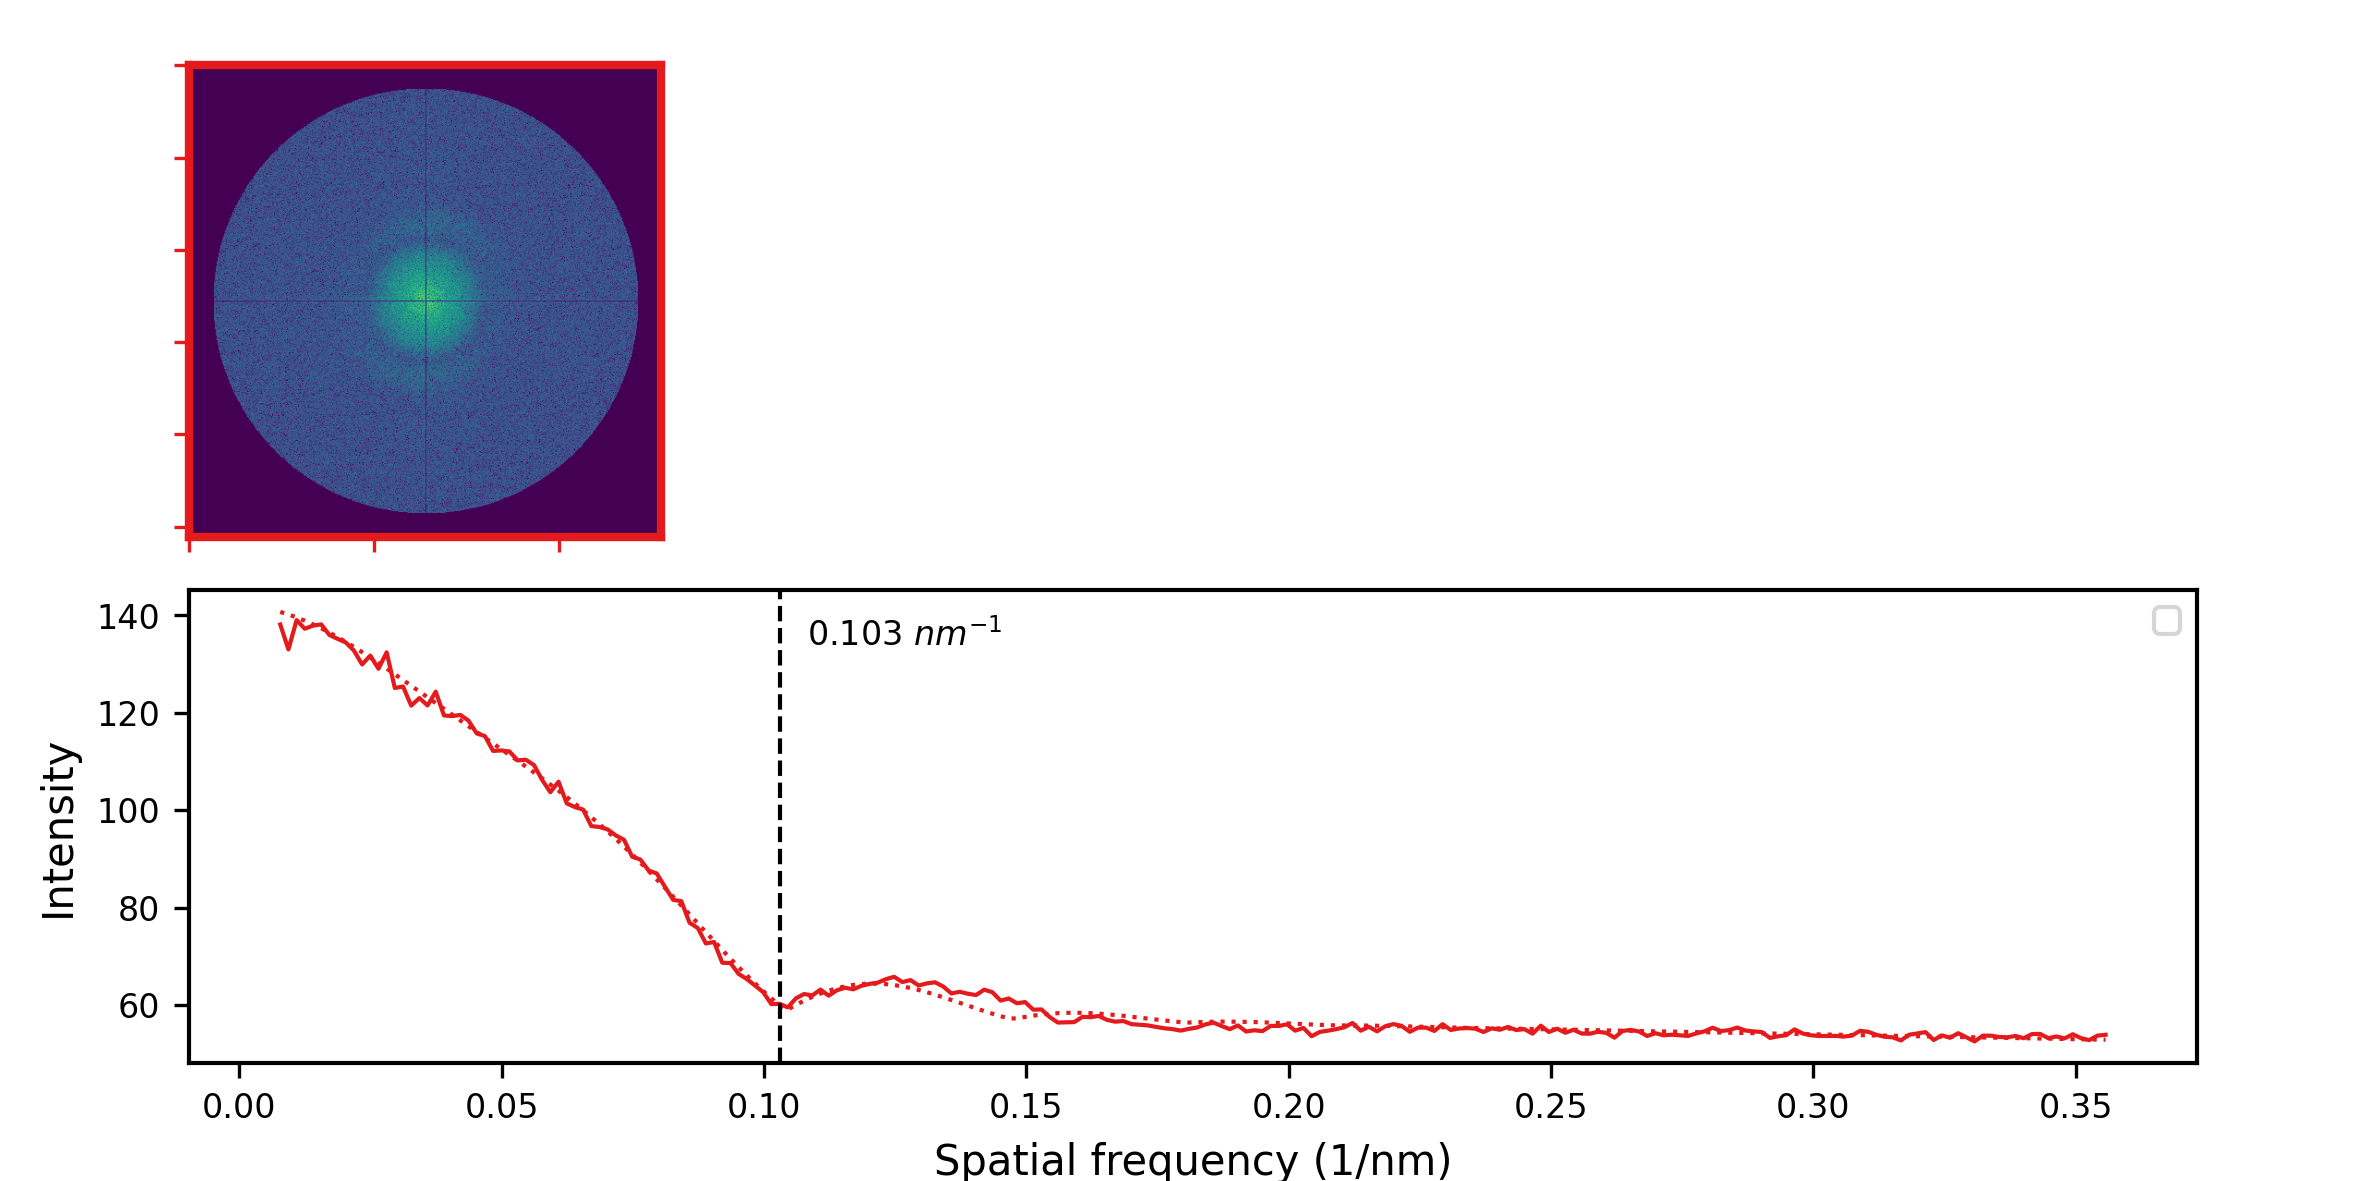
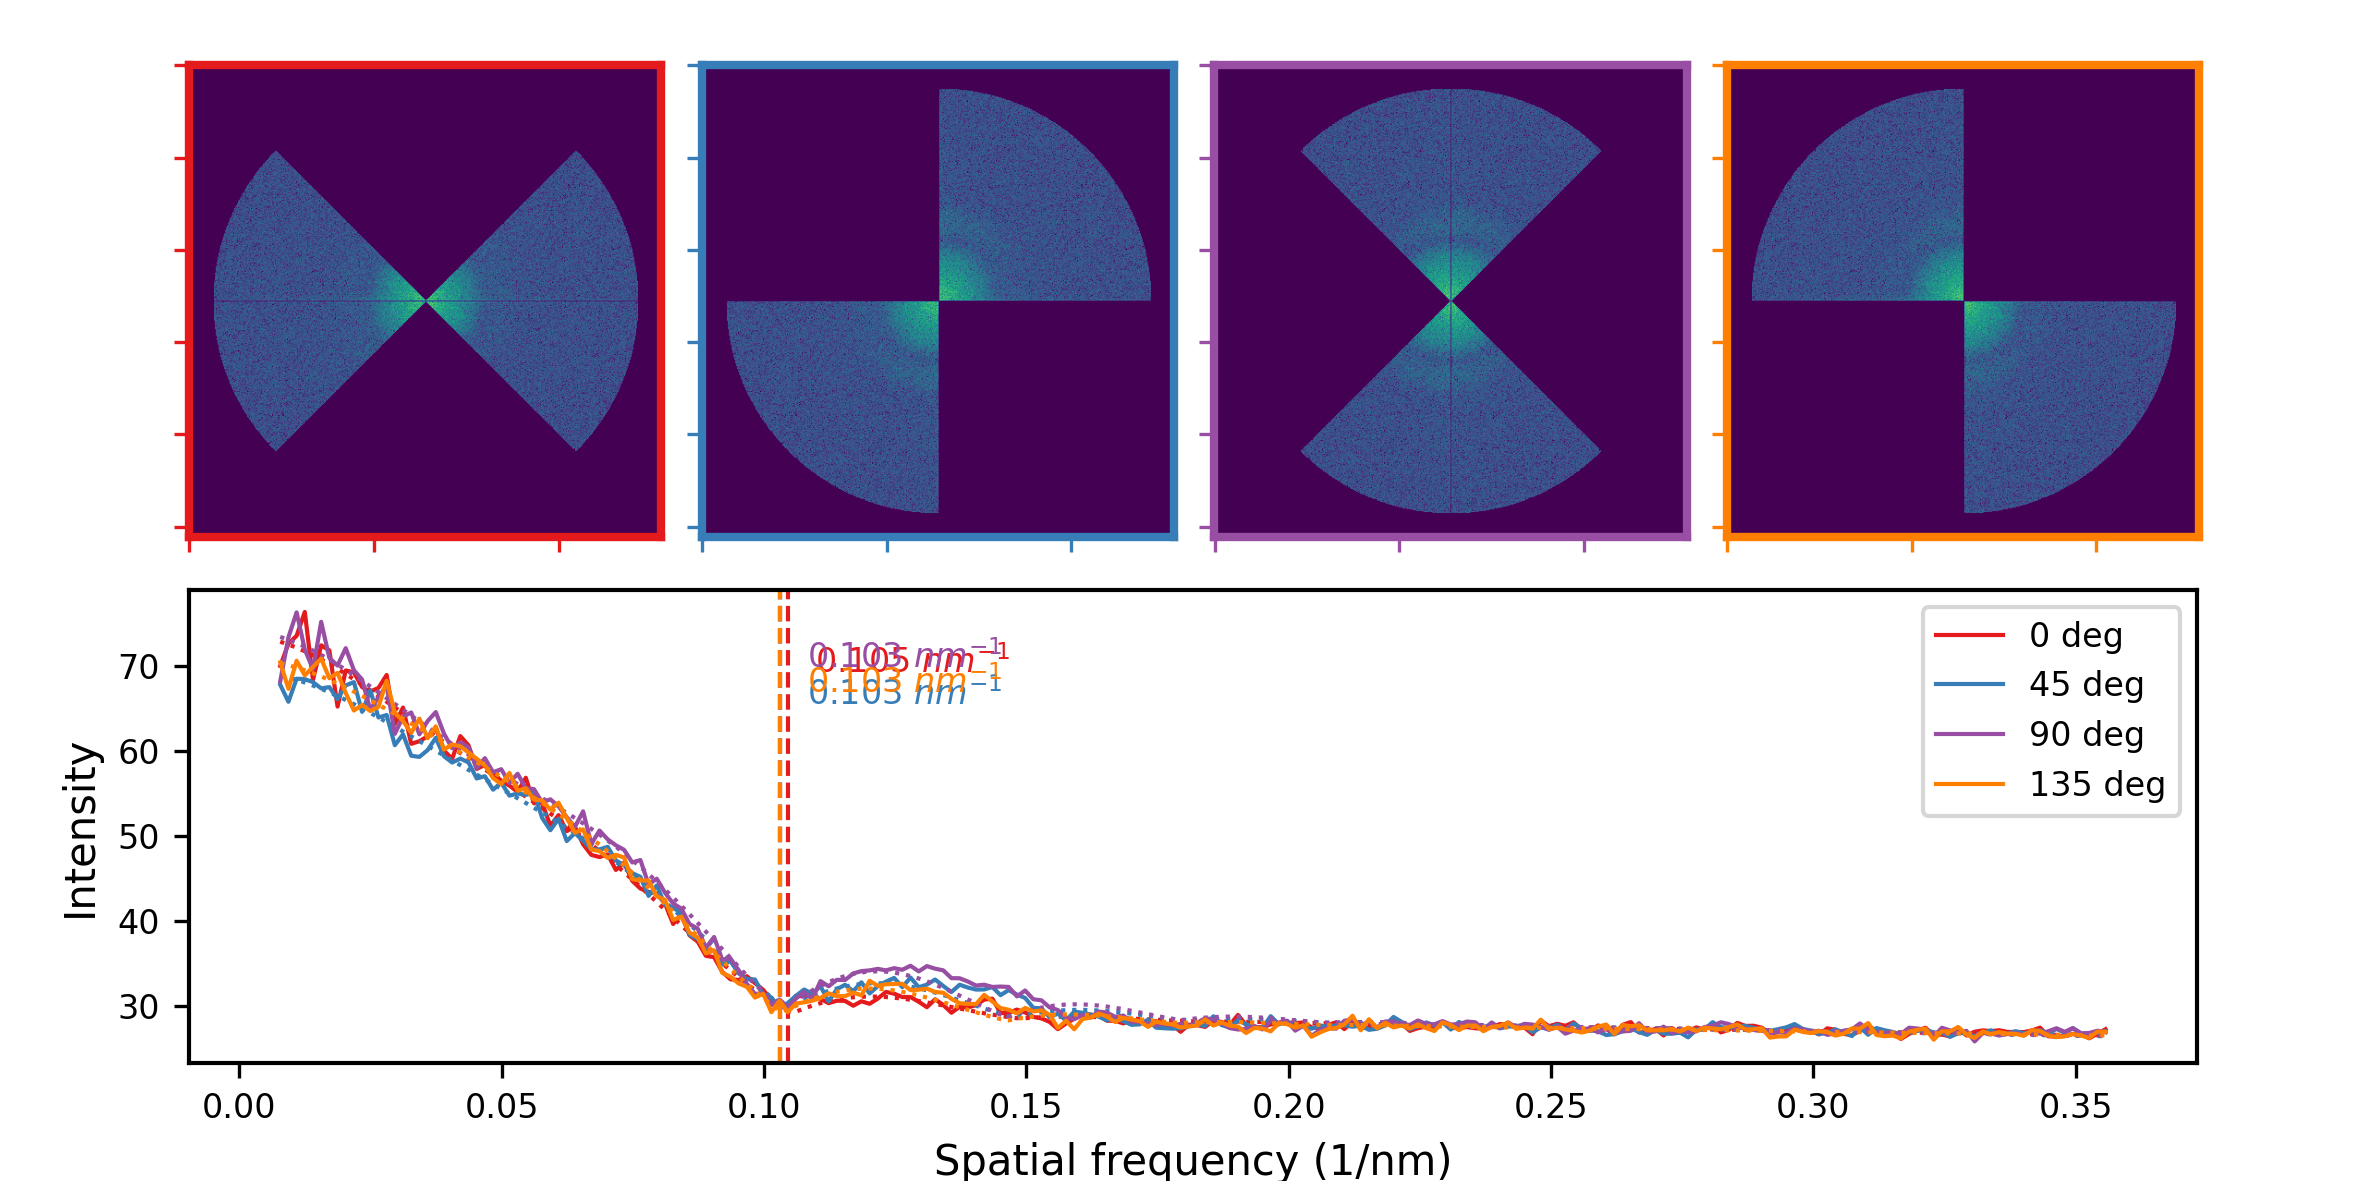
ready to process filestack, stats reporting active

diff --git a/fit.py b/fit.py
@@ -23,7 +23,7 @@ odirname='out'      #output directory relative to script
 centrecut=5     #minimum radius (centre mask)
 secwidth=90     #width of sector
 secmid=0        #centre of first sector
-secstep=180      #step between sectors
+secstep=45      #step between sectors
 
 #figure params
 colourmap='Set1'    #colourmap for figure
@@ -243,9 +243,11 @@ if (secmid < 0) or (secmid >= 360):
 #initialise file# and report matrices
 nfiles=len(glob.glob1(wdir,"*.tif"))
 fnames= np.empty(nfiles, dtype="U10")
-vars=np.zeros(nfiles)
-h=0     #counter
+zavg=np.zeros(nfiles)    #zero point average
+zvar=np.zeros(nfiles)   #zero point variance
+r2avg=np.zeros(nfiles)  #average r2 
 
+h=0 #initialise filecounter
 #Interate through files in directory
 for ff in os.listdir(wdir):
 #for ff in ["r3.tif"]:
@@ -258,7 +260,7 @@ for ff in os.listdir(wdir):
     #if file is tif, proceed
     if (os.path.isfile(f)) and (f.endswith(".tif")):
         print(fname)
-        j=0
+        
 
         #initialise plot and colourmaps per file
         steps=np.arange(0, 180, secstep)
@@ -286,7 +288,11 @@ for ff in os.listdir(wdir):
         
         #initialise the profile array
         profiles=np.zeros((len(steps),rpoints,2))
-        
+        ctfs=np.zeros((len(steps),rpoints))
+        zvals=np.zeros(len(steps))
+        r2=np.zeros(len(steps))
+
+        j=0 #stepcounter
     #   create series of radial masks
     #       iterate through each mask position according to secwith and secstep
         for i in steps:
@@ -345,6 +351,13 @@ for ff in os.listdir(wdir):
 
             #create final model
             ctf=ctfmodel(k, *popt)
+            ctfs[j,:]=ctf
+
+
+            
+#           mdiff=np.subtract(rad, ctf)
+#           print(np.average(mdiff))
+            
             #ctf=ctfmodel(k, *guess)
 
             #create model for sin component
@@ -352,6 +365,19 @@ for ff in os.listdir(wdir):
 
             #get index of first crossing of x-axis -> this is the zero point
             zpoint=zerocross(sinfac)[0]
+            zvals[j]=k[zpoint]
+
+            #calc r2 value as rough goodness-of-fit
+             
+            # residual sum of squares
+            ss_res = np.sum((rad - ctf) ** 2)
+
+            # total sum of squares
+            ss_tot = np.sum((rad - np.mean(rad)) ** 2)
+
+            # r-squared
+            r2[j] = 1 - (ss_res / ss_tot)
+
 
             print("params: amp, Cs, wl, dz, dm, dec, c")
             print("guess",*guess)
@@ -368,30 +394,34 @@ for ff in os.listdir(wdir):
             axrad.set_yticklabels([])
             axrad.tick_params(color=colorVal, labelcolor=colorVal)
             axrad.imshow(img)
-            axgph.plot(k, rad, 
+            axgph.plot(k, rad,
+                label="%d deg" % secmid,
                 color=colorVal)
             axgph.plot(k, ctf, 
                 ':',
                 color=colorVal)
 
-            axgph.axvline(x=k[zpoint], color="black", linestyle='--')    
+            axgph.axvline(x=k[zpoint], color=colorVal, linestyle='--')    
             axgph.text(k[zpoint]*1.05,0.95*max(ctf),
                 ("%.3f $nm^{-1}$" % k[zpoint]),
                 horizontalalignment='left',
-                color="black")
+                color=colorVal)
+            j=j+1   #increment stepcounter
+            #end for i in steps (radial)   
 
-    #FINAL PLOT
+    #FINAL PLOT per tiff
     #adjust labels, legends etc
-
-            axgph.set_ylabel('Intensity')
-            axgph.set_xlabel('Spatial frequency (1/nm)')
+        
+        axgph.set_ylabel('Intensity')
+        axgph.set_xlabel('Spatial frequency (1/nm)')
 #            axgph.set_xlim(0,5)
-            axgph.legend(loc="upper right")
-            j=j+1
-        #end for i    
-            
+        axgph.legend(loc="upper right")
 
-        #calculate stats for each image from profiles
+        #calculate stats for each tiff from profiles
+
+        #calc variance in zvals
+         
+
         #eg. sum, average, std dev, variance
         """
         psum=np.zeros(rpoints)
@@ -444,11 +474,13 @@ for ff in os.listdir(wdir):
         plt.show()
     #   add stats to output matrices
         fnames[h]=fname
-#        vars[h]=Decimal(round(varval,2))
+        zavg[h]=np.average(zvals)
+        zvar[h]=np.var(zvals)
+        r2avg[h]=np.average(r2)
 
     #   clear the figure
         #fig.clf()
-
+        
         h=h+1
 
 #print the final list of values and save to report file
@@ -456,7 +488,7 @@ for ff in os.listdir(wdir):
 #print(vars)
 
 
-np.savetxt(os.path.join(odir, "results.txt"), np.c_[fnames, vars], newline='\n', fmt=['%12s','%12s'], header="      file     variance")
+np.savetxt(os.path.join(odir, "results.txt"), np.c_[fnames, r2avg, zavg, zvar], newline='\n', fmt=['%12s','%12s','%12s','%12s'], header="      file       r2               avg              variance")
 
 #---------------------------------
 #END
